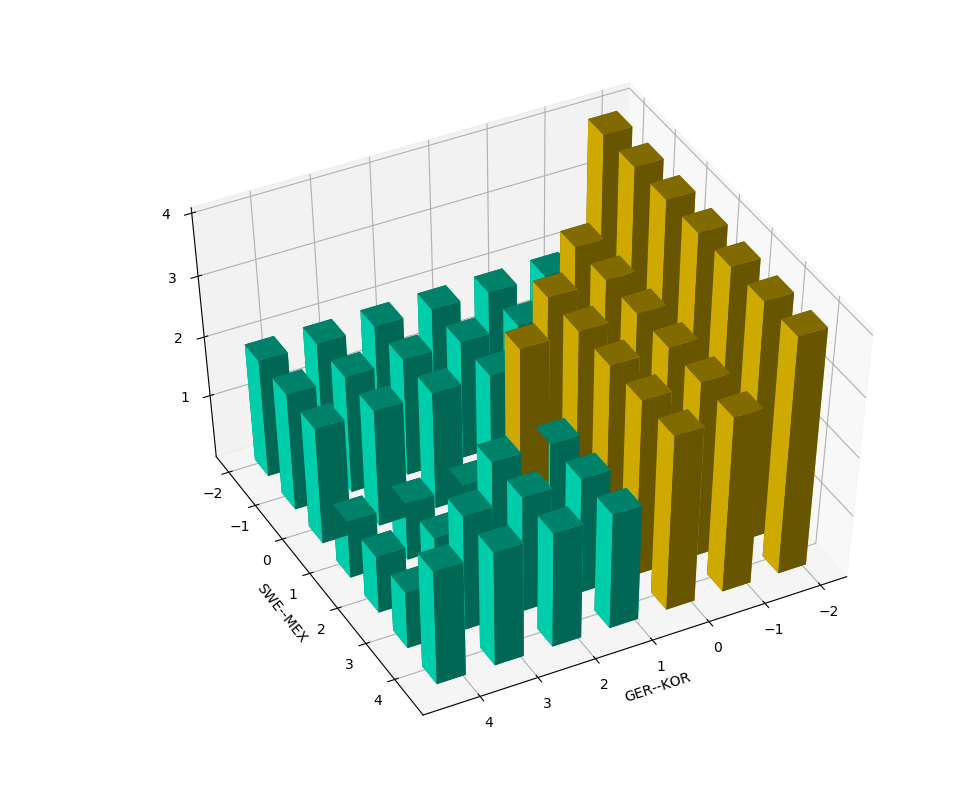
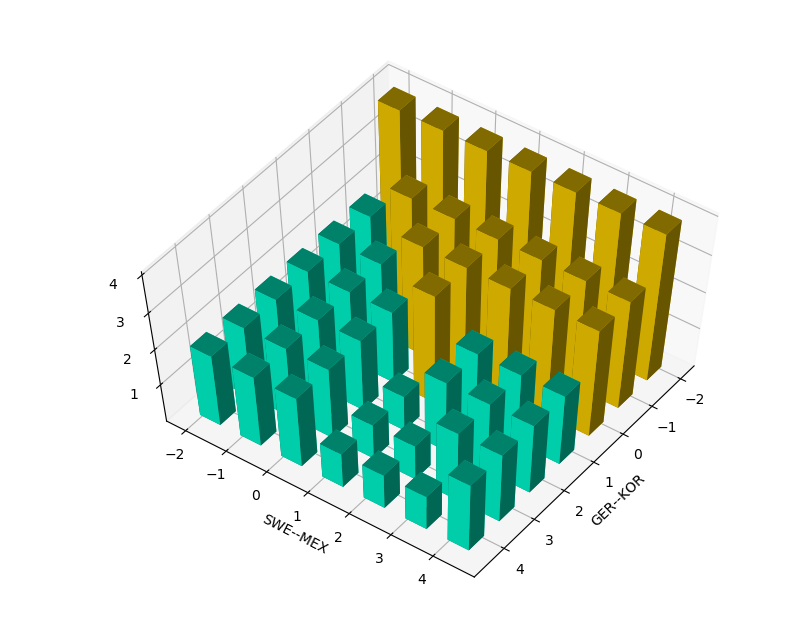
fix in clipping draw problem

diff --git a/Wm2018GroupF.py b/Wm2018GroupF.py
@@ -121,7 +121,7 @@ dx = np.ones(len(x)) / 2
 dy = np.ones(len(x)) / 2
 z = np.zeros(len(x))
 
-ax1.bar3d(x, y, z, dx, dy, dz, color, shade=True)
+ax1.bar3d(x, y, z, dx, dy, dz, color, shade=True, zsort='max')
 #ax1.view_init(ax1.elev, ax1.azim + 90)
 ax1.set_xlabel("GER--KOR")
 ax1.set_ylabel("SWE--MEX")
